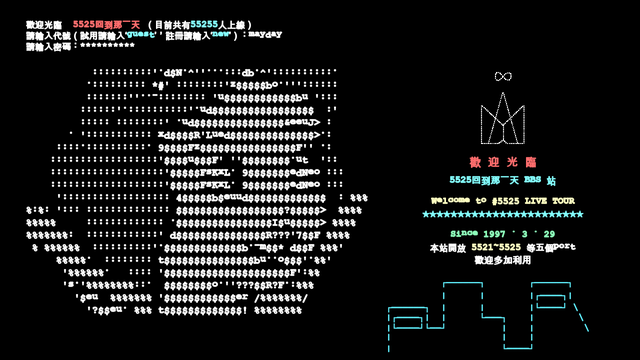
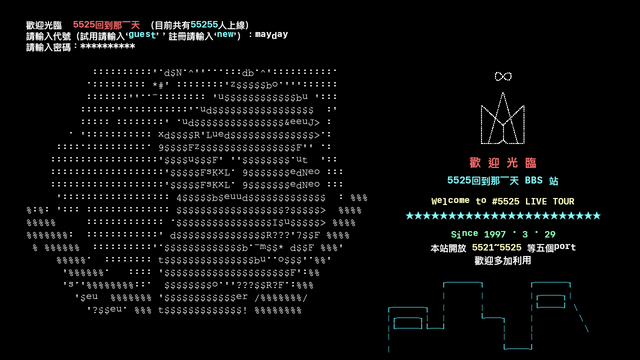
Use system mono and PingFang text with regular Courier artwork

diff --git a/render-profile.py b/render-profile.py
@@ -15,24 +15,32 @@ T = data['T']
 COLORS = {'white': '#ffffff', 'red': '#ff4545', 'cyan': '#5cffff',
           'yellow': '#ffffa5', 'green': '#65ff9b', 'blue': '#38eaff'}
 FONT_DIR = Path('/System/Library/Fonts/Supplemental')
+PINGFANG = next(Path('/System/Library/AssetsV2').glob('com_apple_MobileAsset_Font*/*.asset/AssetData/PingFang.ttc'))
 fonts = {}
-def font(size, cjk=False):
-    key = (size, cjk)
+def font(size, cjk=False, art=False):
+    key = (size, cjk, art)
     if key not in fonts:
-        fonts[key] = ImageFont.truetype(str(FONT_DIR / ('Arial Unicode.ttf' if cjk else 'Courier New Bold.ttf')), size)
+        if art:
+            fonts[key] = ImageFont.truetype(str(FONT_DIR / 'Courier New.ttf'), size)
+        elif cjk:
+            fonts[key] = ImageFont.truetype(str(PINGFANG), size, index=10)  # PingFang TC Semibold
+        else:
+            fonts[key] = ImageFont.truetype('/System/Library/Fonts/SFNSMono.ttf', size)
+            axes = fonts[key].get_variation_axes()
+            fonts[key].set_variation_by_axes([700 if a['name']==b'Weight' else a['default'] for a in axes])
     return fonts[key]
 
 def width(text, size):
     return sum(font(size, ord(c) > 127).getlength(c) for c in text)
 
-def text(draw, xy, value, size=18, color='white', center=False):
+def text(draw, xy, value, size=18, color='white', center=False, art=False):
     x, y = xy
     if center:
         x -= width(value, size) / 2
     for char in value:
-        f = font(size, ord(char) > 127)
+        f = font(size, ord(char) > 127, art=art)
         draw.text((x, y), char, font=f, fill=COLORS[color], anchor='lt',
-                  stroke_width=0.7,
+                  stroke_width=0,
                   stroke_fill=COLORS[color])
         x += f.getlength(char)
     return x
@@ -91,7 +99,7 @@ def frame(now):
     if chunk>=0:
         face=data['faceText'][:data['faceChunks'][chunk]]
         for i,line in enumerate(face.split('\n')):
-            text(draw,(52,139+i*25),line,20)
+            text(draw,(52,139+i*25),line,20,art=True)
     if now>=T['castle']:
         logo(draw)
     right=[('r1','歡 迎 光 臨',23,'red',314),('r2','5525回到那一天 BBS 站',19,'cyan',353),
@@ -109,7 +117,7 @@ def frame(now):
         for value,color in values: x=text(draw,(x,488),value,18,color)
     for i,row in enumerate(data['skyRows']):
         if now>=row['at']:
-            draw.text((772,564+i*20.7),row['text'],font=font(18),fill=COLORS['blue'],anchor='lt',stroke_width=0.3)
+            draw.text((772,564+i*20.7),row['text'],font=font(18,art=True),fill=COLORS['blue'],anchor='lt')
     # Lift antialiased edges as well as glyph cores: GitHub downscales the
     # 1280px source, so dark edge pixels otherwise dominate thin strokes.
     return image.point([round(255 * (i / 255) ** 0.65) for i in range(256)] * 3)
